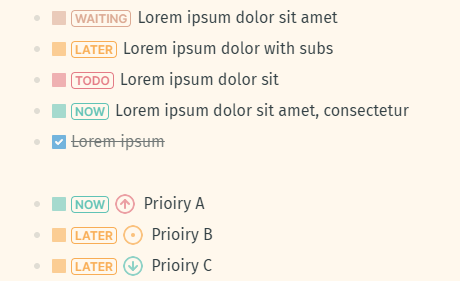
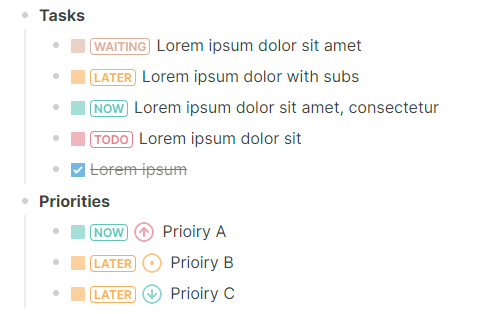
docs(screens): update to default theme

Changed region(s): [[0.0304, 0.0285, 0.913, 0.5694], [0.0609, 0.7972, 0.487, 0.9964], [0.0304, 0.5979, 0.4565, 0.7687]]

diff --git a/README.md b/README.md
@@ -12,6 +12,8 @@
 
 ### ⚡ Reworked, simplified, fixed and pumped-up Logseq! Layout, components, etc...
 
+![](https://github.com//yoyurec/logseq-awesome-ui/raw/main/screenshots/scr.png)
+
 * 🐱👤 Changed default UI layout, sidebars
 * ✨ Changed icons, new added
 * 🔥 Redesigned **head** toolbar: navigation arrows on left side, hidden home...
@@ -66,7 +68,9 @@ Wide responsive search like in browser!
 
 <img src="https://github.com//yoyurec/logseq-awesome-ui/raw/main/screenshots/calendar.png">
 
-#### instructions:
+<details>
+  <summary>⚠ Instructions for "Agenda plugin"</summary>
+
 * install Agenda plugin
 * Agenda plugin button should be pinned on toolbar to proper work ⚠
 * go to Agenda settings and set "Home page" - Calendar
@@ -76,10 +80,16 @@ Wide responsive search like in browser!
 
 <img src="https://github.com//yoyurec/logseq-awesome-ui/raw/main/screenshots/agenda-settings.png" width="600">
 
+</details>
+
+
 ### 📋 Page properties
 
 Icons, according to property value or it's (predefined) name.
-Key can contain word (`type` = `page-type`, `item-type`, `task` = `tasks`, etc...):
+Key can contain word (`type` = `page-type`, `item-type`, `task` = `tasks`, etc...)
+<details>
+  <summary>Full list</summary>
+
 * `link`, `links`, `url`, `source`
 * `tags`
 * `alias`
@@ -112,6 +122,7 @@ Key can contain word (`type` = `page-type`, `item-type`, `task` = `tasks`, etc..
 * `size`
 * `lang`, `language`
 
+</details>
 
 ![](https://github.com//yoyurec/logseq-awesome-ui/raw/main/screenshots/awesomeProps.png)
 
@@ -129,7 +140,7 @@ and check [Logseq template](./extra/Kanban%20template.md)
 
 ### 📝 Redesigned admonition blocks
 
-<img src="https://github.com//yoyurec/logseq-awesome-ui/raw/main/screenshots/admonition.png" width="600">
+![](https://github.com//yoyurec/logseq-awesome-ui/raw/main/screenshots/admonition.png)
 
 ### 💬 Blockquotes
 Just add `#quote` tag to parent block!
@@ -138,7 +149,7 @@ Just add `#quote` tag to parent block!
 
 ### 📋 Compact QUERY results header
 
-<img src="https://github.com//yoyurec/logseq-awesome-ui/raw/main/screenshots/queries.png" width="740">
+![](https://github.com//yoyurec/logseq-awesome-ui/raw/main/screenshots/queries.png)
 
 ### 🧮 Redesigned calculator
 
